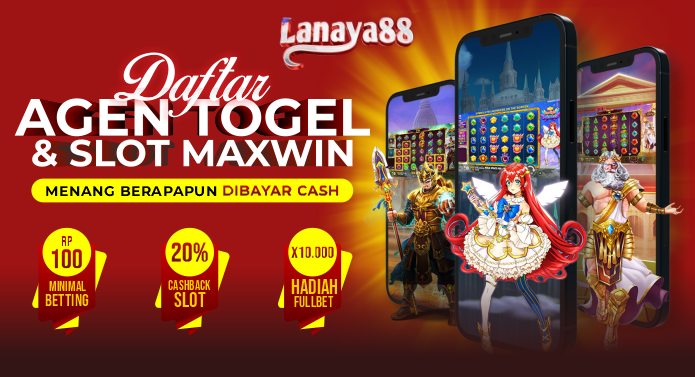
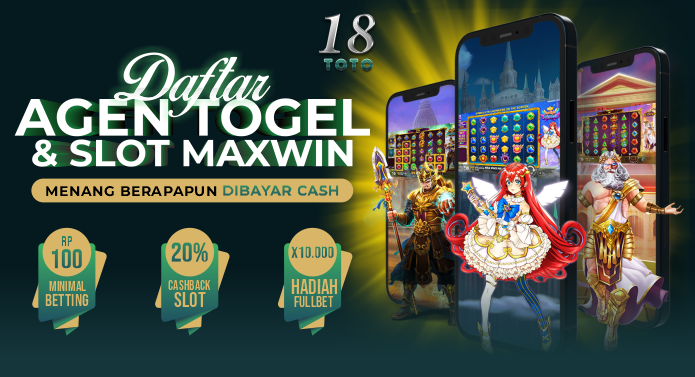
first commit

diff --git a/app/page.tsx b/app/page.tsx
@@ -10,20 +10,20 @@ export default function Home() {
         <div className='mx-auto lg:w-2/3'>
             <div className=" container mx-auto flex flex-wrap md:p-5 flex-col md:flex-row items-center">
               <a className="max-sm:fixed flex title-font font-medium items-center text-gray-900 md:mb-0">
-                <Image alt="lanaya88 slot" src='/logo.png' className='w-48 md:w-52 block' width='230' height='80' />
+                <Image alt="18toto slot" src='/logo.png' className='w-48 md:w-52 block' width='230' height='80' />
               </a>
                 <div className="max-sm:mt-32 max-sm:container md:ml-auto md:mr-auto flex items-center text-base justify-center gap-2">
-                  <Link title="Lanaya88 Agen Slot Online Terpercaya, Bandar Judi Slot Maxwin 2025" href='https://daftarwap.orang-dalam.link/lanaya' target="_blank" className='text-center w-52 max-sm:w-9/12 font-bold text-black px-6 py-2 border-2 border-[#FFFE00] rounded-sm bg-gradient-to-r from-[#FFA200] via-[#FFC300] to-[#ffa200]'>
+                  <Link title="18toto : Slot Deposit 3000 Via Dana Dan Situs Slot Gacor Jam Ini" href='https://daftarwap.orang-dalam.link/18' target="_blank" className='text-center w-52 max-sm:w-9/12 font-bold text-black px-6 py-2 border-2 border-[#FFFE00] rounded-sm bg-gradient-to-r from-[#FFA200] via-[#FFC300] to-[#ffa200]'>
                       LOGIN
                   </Link>
-                  <Link title="Lanaya88 Agen Slot Online Terpercaya, Bandar Judi Slot Maxwin 2025" href='https://daftarwap.orang-dalam.link/lanaya' target="_blank" className='text-center w-52 max-sm:w-9/12 font-bold text-black px-6 py-2 border-2 border-[#FFFE00] rounded-sm bg-gradient-to-r from-[#FFA200] via-[#FFC300] to-[#ffa200]'>
+                  <Link title="18toto : Slot Deposit 3000 Via Dana Dan Situs Slot Gacor Jam Ini" href='https://daftarwap.orang-dalam.link/18' target="_blank" className='text-center w-52 max-sm:w-9/12 font-bold text-black px-6 py-2 border-2 border-[#FFFE00] rounded-sm bg-gradient-to-r from-[#FFA200] via-[#FFC300] to-[#ffa200]'>
                       DAFTAR
                   </Link>
                 </div>
             </div>
 
-          <Image alt="Lanaya88 Agen Slot Online Terpercaya, Bandar Judi Slot Maxwin 2025" src='/banner.png' className='max-sm:mt-12 w-full block' width={757} height={411} />
-          <h1 className='my-6 text-center'>Lanaya88 Agen Slot Online Terpercaya, Bandar Judi Slot Maxwin 2025</h1>
+          <Image alt="18toto : Slot Deposit 3000 Via Dana Dan Situs Slot Gacor Jam Ini" src='/banner.png' className='max-sm:mt-12 w-full block' width={757} height={411} />
+          <h1 className='my-6 text-center'>18toto : Slot Deposit 3000 Via Dana Dan Situs Slot Gacor Jam Ini</h1>
           <div className='p-6 space-y-6 rounded-md glow-yellow mb-40'>
             <div className='flex flex-col'>
               <div className='overflow-x-auto sm:-mx-6 lg:-mx-8'>
@@ -33,14 +33,14 @@ export default function Home() {
                       <thead className='font-medium border-b border-[#EACD00] bg-gradient-to-r from-[#2E2E2E] via-[#606060] to-[#2E2E2E] '>
                         <tr>
                           <th colSpan={2} scope='col' className='px-6 py-3 text-center border-2 border-e border-[#EACD00] '>
-                            <h2>Informasi Lanaya88 Agen Slot Maxwin Online</h2>
+                            <h2>Informasi 18toto Agen Slot Maxwin Online</h2>
                           </th>
                         </tr>
                       </thead>
                       <tbody>
                         <tr className='border-b border-[#EACD00] grid-cols-4'>
                           <td className='px-2 py-3 w-1/4 whitespace-nowrap border-e border-[#EACD00] '>Nama Situs</td>
-                          <td className='px-2 py-3 w-3/4 whitespace-nowrap border-e border-[#EACD00] '>Lanaya88</td>
+                          <td className='px-2 py-3 w-3/4 whitespace-nowrap border-e border-[#EACD00] '>18toto</td>
                         </tr>
                         <tr className='border-b border-[#EACD00] '>
                           <td className='px-2 py-3 w-1/4 whitespace-nowrap border-e border-[#EACD00] '>Pasaran Togel Terbanyak</td>
@@ -62,7 +62,7 @@ export default function Home() {
                         <tr className='border-b border-[#EACD00] '>
                           <td className='px-2 py-3 w-1/4 whitespace-nowrap border-e border-[#EACD00] '>Daftar Slot Maxwin</td>
                           <td className='px-2 py-3 w-3/4 whitespace-nowrap border-e border-[#EACD00] '>
-                            <Link href='https://daftarwap.orang-dalam.link/lanaya' target="_blank">
+                            <Link href='https://daftarwap.orang-dalam.link/18' target="_blank">
                               Klik disini
                             </Link>
                           </td>
@@ -88,44 +88,48 @@ export default function Home() {
                 </div>
               </div>
             </div>
-            <h1>Lanaya88 🔥 Situs Judi Resmi Deposit Dana Dan Slot Maxwin Terbesar!</h1>
+            <h1>18toto 🔥 Situs Judi Resmi Deposit Dana Dan Slot Maxwin Terbesar!</h1>
             <p>
-              Di dunia perjudian online yang dinamis, Lanaya88 telah muncul sebagai situs judi resmi yang menarik perhatian para pemain. Dikenal karena kemudahan melakukan deposit menggunakan Dana dan menawarkan slot Maxwin terbesar, Lanaya88 menggabungkan keamanan, kenyamanan, dan keseruan dalam satu platform.
+              18toto muncul sebagai situs resmi yang menarik perhatian para pemain slot/casino/poker/baccarat/roulette/zeus. Dikenal karena menawarkan slot Maxwin terbesar, 18toto menggabungkan rtp yang sangat akurat hingga 99%.
             </p>
             <p>
-              Lanaya88 terbukti sebagai situs judi resmi yang menawarkan deposit Dana dan slot Maxwin terbesar, memberikan pengalaman bermain yang nyaman, aman, dan menguntungkan. Bergabunglah dengan Lanaya88 dan rasakan sendiri keunggulan dari salah satu situs judi terbesar dan terpercaya!
+              18toto menyediakan pembayaran yang beragam dari E-wallet (Dana/Ovo/LinkAja/Sakuku/Jenius/Dll), QRIS yang cepat, serta beberapa bank national seperti BCA/BNI/MANDIRI/BRI!
             </p>
             
             <p>
               <strong>Keyword Terkait:</strong>
             </p>
             <ul className='text-[#FFD700] ml-4 leading-loose'>
-              <li className='list-disc'>Lanaya88</li>
+              <li className='list-disc'>18toto</li>
+              <li className='list-disc'>sydneypools</li>
+              <li className='list-disc'>sydney lotto</li>
               <li className='list-disc'>slot online</li>
               <li className='list-disc'>slot gacor</li>
               <li className='list-disc'>slot dana maxwin</li>
               <li className='list-disc'>situs toto</li>
-              <li className='list-disc'>hongkongpools</li>
-              <li className='list-disc'>hongkong lotto</li>
-              <li className='list-disc'>sydneypools</li>
-              <li className='list-disc'>sydney lotto</li>
               <li className='list-disc'>bo togel bet 100</li>
               <li className='list-disc'>bo togel resmi</li>
+              <li className='list-disc'>hongkongpools</li>
+              <li className='list-disc'>hongkong lotto</li>
               <li className='list-disc'>situs togel resmi</li>
+              <li className='list-disc'>situs judi togel macau</li>
+              <li className='list-disc'>situs judi togel malibupools</li>
+              <li className='list-disc'>bandar togel china</li>
               <li className='list-disc'>toto macau resmi</li>
+              <li className='list-disc'>bandar spaceman gacor</li>
               <li className='list-disc'>agen togel online</li>
-              <li className='list-disc'>bandar togel terbesar</li>
-              <li className='list-disc'>bo togel 100</li>
-              <li className='list-disc'>situs togel terpercaya</li>
               <li className='list-disc'>bandar judol slot</li>
               <li className='list-disc'>agen slot online terpercaya</li>
               <li className='list-disc'>judi slot maxwin gampang menang</li>
+              <li className='list-disc'>bandar togel terbesar</li>
+              <li className='list-disc'>bo togel 100</li>
+              <li className='list-disc'>situs togel terpercaya</li>
               <li className='list-disc'>depo slot 5000</li>
               <li className='list-disc'>slot maxwin terbaru</li>
             </ul>
           </div>
           <div className='bg-[#5B5B5B] text-center py-4'>
-            <p className='text-sm text-white font-medium'>Copyright &copy; 2025 - LANAYA88 Agen Slot Online Terpercaya, Bandar Judi Slot Maxwin 2025 </p>
+            <p className='text-sm text-white font-medium'>Copyright &copy; 2025 - 18toto : Slot Deposit 3000 Via Dana Dan Situs Slot Gacor Jam Ini </p>
           </div>
         </div>
       </div>

diff --git a/app/layout.tsx b/app/layout.tsx
@@ -33,8 +33,8 @@ function rank() {
           },
 	"author": {
             "@type": "Person",
-            "name": "Lanaya88 Agen Slot Online Terpercaya, Bandar Judi Slot Maxwin 2025",
-            "reviewBody": "Lanaya88 agen slot Online terpercaya, bandar judi slot maxwin 2025, menawarkan pengalaman bermain slot gacor terbaik dengan keamanan terjamin. Nikmati pasaran Toto hongkong lotto lengkap dengan peluang menang tinggi, serta transaksi yang cepat dan aman. Menangkan hadiah besar di situs terpercaya ini!"
+            "name": "18toto : Slot Deposit 3000 Via Dana Dan Situs Slot Gacor Jam Ini",
+            "reviewBody": "18toto : Slot Deposit 3000 Via Dana Dan Situs Slot Gacor Jam Ini, menawarkan pengalaman bermain slot gacor terbaik dengan keamanan terjamin. Nikmati pasaran Toto hongkong lotto lengkap dengan peluang menang tinggi, serta transaksi yang cepat dan aman. Menangkan hadiah besar di situs terpercaya ini!"
           }
         },
     "offers": {
@@ -56,16 +56,16 @@ export default function RootLayout({
     <html lang="id" data-browser="chrome">
       <head>
         <meta charSet="utf-8" />
-        <title>Lanaya88 Agen Slot Online Terpercaya, Bandar Judi Slot Maxwin 2025</title>
-        <meta name="description" content="Lanaya88 agen slot Online terpercaya, bandar judi slot maxwin 2025, menawarkan pengalaman bermain slot gacor terbaik dengan keamanan terjamin. Nikmati pasaran Toto hongkong lotto lengkap dengan peluang menang tinggi, serta transaksi yang cepat dan aman. Menangkan hadiah besar di situs terpercaya ini!" />
-        <meta name="keywords" content="Lanaya88 agen slot Online terpercaya, bandar judi slot maxwin 2025, menawarkan pengalaman bermain slot gacor terbaik dengan keamanan terjamin. Nikmati pasaran Toto hongkong lotto lengkap dengan peluang menang tinggi, serta transaksi yang cepat dan aman. Menangkan hadiah besar di situs terpercaya ini!" />
+        <title>18toto : Slot Deposit 3000 Via Dana Dan Situs Slot Gacor Jam Ini</title>
+        <meta name="description" content="18toto hadir sebagai solusi bagi pecinta slot online yang mencari kemudahan dan kenyamanan dalam bermain. Dengan fitur slot deposit 3000 via Dana, Anda dapat menikmati permainan seru tanpa harus mengeluarkan modal besar" />
+        <meta name="keywords" content="18toto, Deposit Dana 5000k, Situs Judi Online, Dana Slot77, situs Slot Dana, Gopay 69 Slot, Situs Slot Deposit 5000, Situs Slot Gacor Hari Ini Via Dana, Slot Deposit 3000 Via Dana, Situs Slot Gacor Jam Ini" />
         <meta name="google-site-verification" content="veMyOTuOGYmEQDMDDL9R58xwmmCMdesJMcTMkYDqZ3Q" />
-        <meta name="application-name" content="Lanaya88" />
+        <meta name="application-name" content="18toto" />
         <link rel="author" href={nameDomain} />
         <link rel="canonical" href={nameDomain} />
-        <meta name="author" content="Lanaya88" />
-        <meta name="publisher" content="Lanaya88" />
-        <meta name="copyright" content="Lanaya88" />
+        <meta name="author" content="18toto" />
+        <meta name="publisher" content="18toto" />
+        <meta name="copyright" content="18toto" />
         <meta name="robots" content="index, follow" />
         <meta name="googlebot" content="index, follow" />
         <meta name="category" content="slot" />
@@ -79,19 +79,19 @@ export default function RootLayout({
         <meta name="MobileOptimized" content="width" />
         <meta name="distribution" content="global" />
         <meta name="format-detection" content="telephone=no, address=no, email=no" />
-        <meta property="og:title" content="Lanaya88 Agen Slot Online Terpercaya, Bandar Judi Slot Maxwin 2025" />
-        <meta property="og:description" content="Lanaya88 agen slot Online terpercaya, bandar judi slot maxwin 2025, menawarkan pengalaman bermain slot gacor terbaik dengan keamanan terjamin. Nikmati pasaran Toto hongkong lotto lengkap dengan peluang menang tinggi, serta transaksi yang cepat dan aman. Menangkan hadiah besar di situs terpercaya ini!" />
+        <meta property="og:title" content="18toto : Slot Deposit 3000 Via Dana Dan Situs Slot Gacor Jam Ini" />
+        <meta property="og:description" content="18toto : Slot Deposit 3000 Via Dana Dan Situs Slot Gacor Jam Ini, menawarkan pengalaman bermain slot gacor terbaik dengan keamanan terjamin. Nikmati pasaran Toto hongkong lotto lengkap dengan peluang menang tinggi, serta transaksi yang cepat dan aman. Menangkan hadiah besar di situs terpercaya ini!" />
         <meta property="og:url" content={nameDomain} />
-        <meta property="og:site_name" content="Lanaya88" />
+        <meta property="og:site_name" content="18toto" />
         <meta property="og:locale" content="id_ID" />
         <meta property="og:image" content={nameDomain} />
         <meta property="og:image:width" content="840" />
         <meta property="og:image:height" content="480" />
         <meta property="og:type" content="website" />
         <meta name="twitter:card" content="summary" />
-        <meta name="twitter:creator" content="Lanaya88" />
-        <meta name="twitter:title" content="Lanaya88 Agen Slot Online Terpercaya, Bandar Judi Slot Maxwin 2025" />
-        <meta name="twitter:description" content="Lanaya88 agen slot Online terpercaya, bandar judi slot maxwin 2025, menawarkan pengalaman bermain slot gacor terbaik dengan keamanan terjamin. Nikmati pasaran Toto hongkong lotto lengkap dengan peluang menang tinggi, serta transaksi yang cepat dan aman. Menangkan hadiah besar di situs terpercaya ini!" />
+        <meta name="twitter:creator" content="18toto" />
+        <meta name="twitter:title" content="18toto : Slot Deposit 3000 Via Dana Dan Situs Slot Gacor Jam Ini" />
+        <meta name="twitter:description" content="18toto : Slot Deposit 3000 Via Dana Dan Situs Slot Gacor Jam Ini, menawarkan pengalaman bermain slot gacor terbaik dengan keamanan terjamin. Nikmati pasaran Toto hongkong lotto lengkap dengan peluang menang tinggi, serta transaksi yang cepat dan aman. Menangkan hadiah besar di situs terpercaya ini!" />
         <meta name="twitter:image" content={nameDomain} />
         <link rel="icon" href="/favicon.ico?favicon.088e6c96.ico" sizes="256x256" type="image/x-icon" />
         <meta name="viewport" content="width=device-width, initial-scale=1" />
